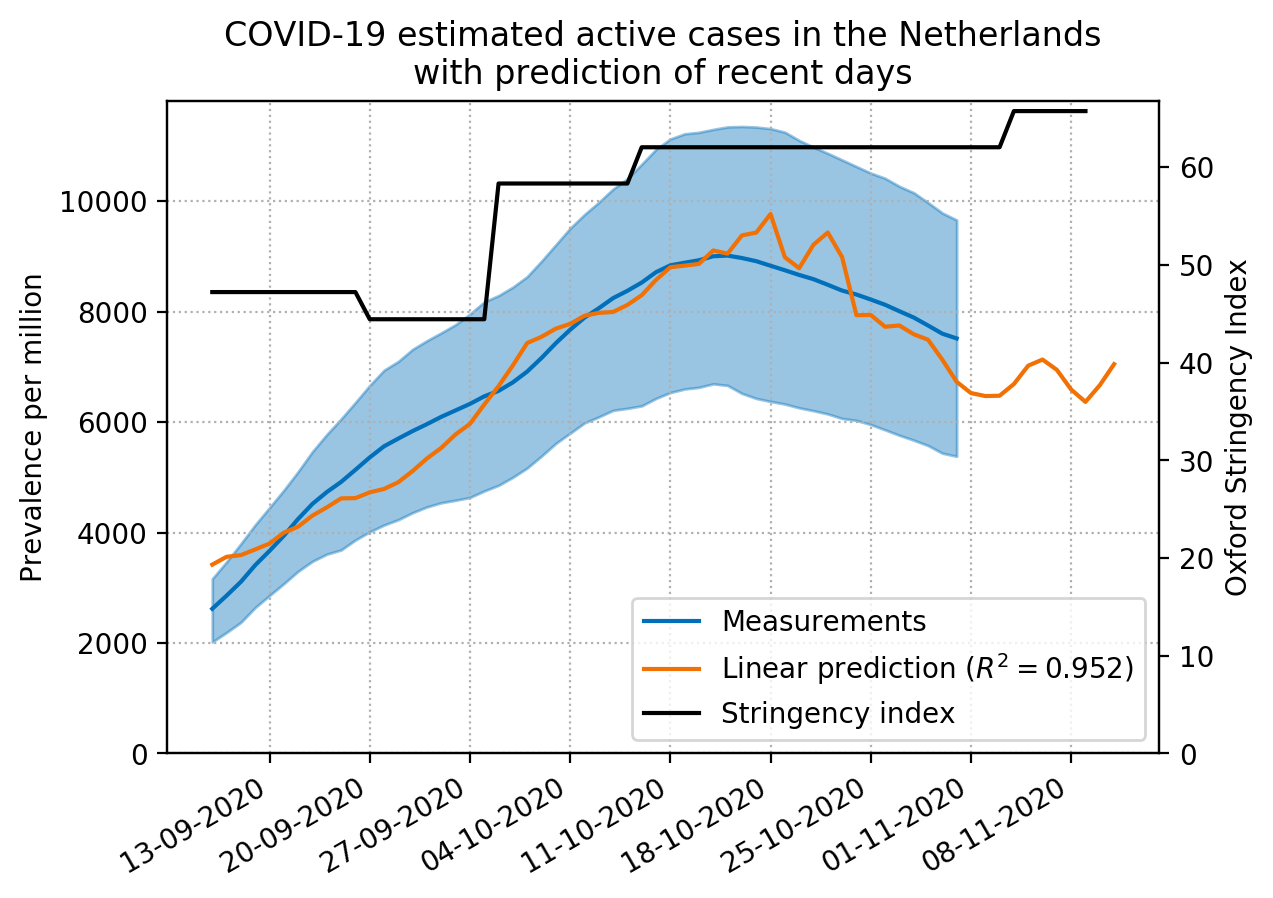
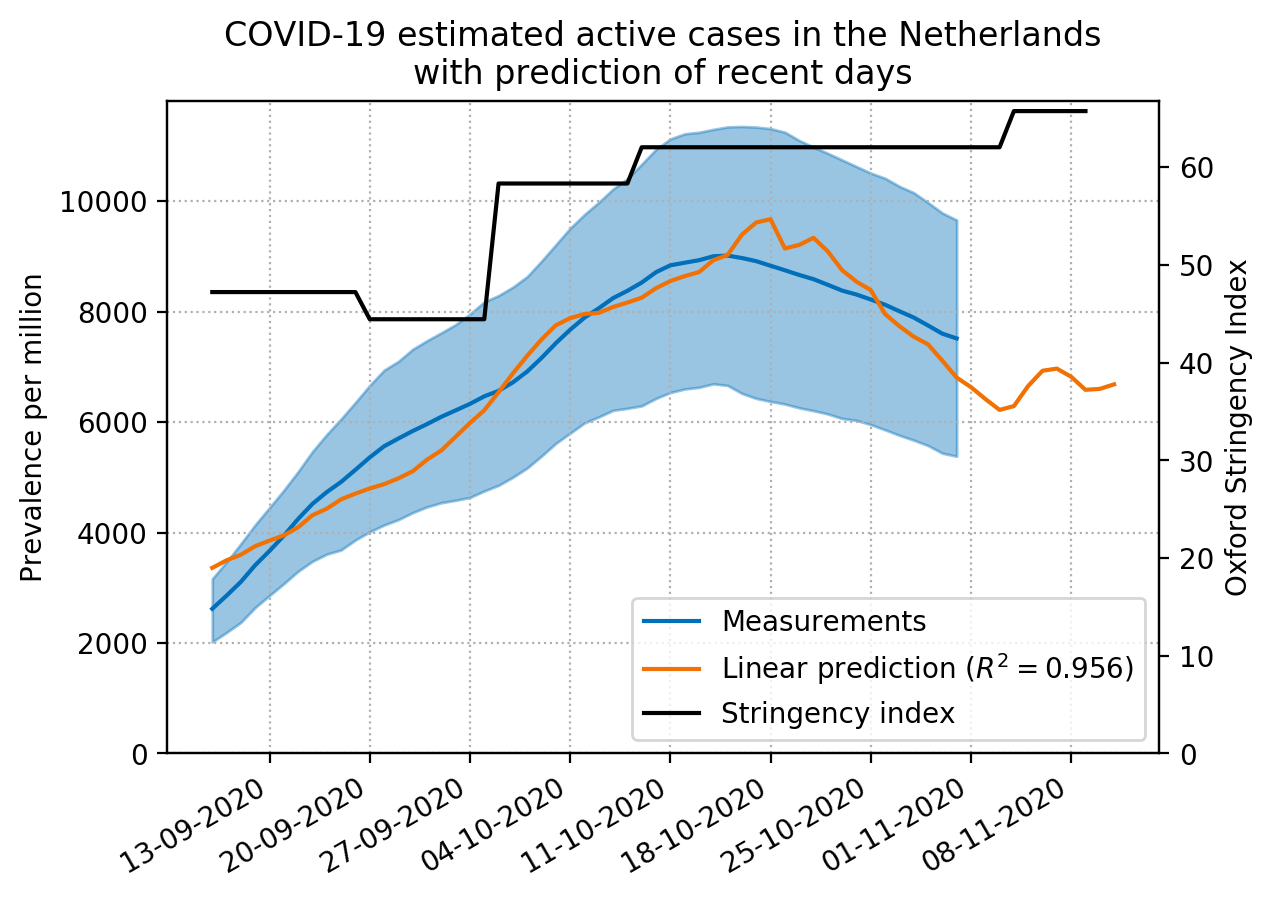
Added stringency index to R prediction plot

diff --git a/model_coronavirus_supression.py b/model_coronavirus_supression.py
@@ -34,6 +34,7 @@ time_till_recovery = 14
 
 betterblue = '#016FB9'
 betterorange = '#F17105'
+betterblack = '#141414'
 
 def downloadSave(url, file_name, check_file_exists = False):
 	"""
@@ -212,23 +213,27 @@ def load_mobility_data(smooth = False, smoothsize = 7, apple_mobility_url_base =
 	### now load the apple data
 	#the url changes to the most recent date of availability, so we need to scan
 	#several urls of the past few days
-	today = dt.datetime.now().date()
-	apple_mob_fname = f'{dataloc}applemobilitytrends-'
-	#make the possible urls, starting with the most recent date
-	for minday in range(8):
-		possible_date = today - dt.timedelta(days = minday)
-		apple_mob_possible_url = f'{apple_mobility_url_base}{possible_date}.csv'
+	possible_apple_data_files = glob.glob(f'{dataloc}applemobilitytrends-*.csv')
+	if len(possible_apple_data_files) == 0:
 
-		try:
-			downloadSave(apple_mob_possible_url, apple_mob_fname + f'{possible_date}.csv', check_file_exists = True)
+		today = dt.datetime.now().date()
+		apple_mob_fname = f'{dataloc}applemobilitytrends-'
+		#make the possible urls, starting with the most recent date
+		for minday in range(8):
+			possible_date = today - dt.timedelta(days = minday)
+			apple_mob_possible_url = f'{apple_mobility_url_base}{possible_date}.csv'
 
-			print(f'{possible_date} correct!')
+			try:
+				downloadSave(apple_mob_possible_url, apple_mob_fname + f'{possible_date}.csv', check_file_exists = True)
 
-			apple_mob_fname += f'{possible_date}.csv'
-			break
-		except HTTPError:
-			print(f'{possible_date} no data found')
+				print(f'{possible_date} correct!')
 
+				apple_mob_fname += f'{possible_date}.csv'
+				break
+			except HTTPError:
+				print(f'{possible_date} no data found')
+	else:
+		apple_mob_fname = possible_apple_data_files[0]
 
 	#load any apple mobility file
 	# apple_part_fname = f'{dataloc}applemobilitytrends*.csv'
@@ -618,7 +623,7 @@ def plot_prevalence_R():
 	ax2.fill_between(df_R0.index, df_R0['Rt_low'], df_R0['Rt_up'], alpha = 0.4, color = 'maroon')
 
 	#also plot government response
-	ln3 = ax3.plot(df_response.index, df_response['StringencyIndex'], label = 'Stringency index', color = 'black')
+	ln3 = ax3.plot(df_response.index, df_response['StringencyIndex'], label = 'Stringency index', color = betterblack)
 
 	ax1.set_ylim(0)
 	ax2.set_ylim(0, 2.6)
@@ -1114,11 +1119,18 @@ def estimate_recent_R(enddate_train = '2020-10-25'):
 	"""
 	Estimate the reproductive number R with mobility data
 	"""
-
 	print(f'WARNING: end date for R training set is {enddate_train}')
+
+	startdate_pred = '2020-07-01'
+
 	df_prevalence, df_R = load_prevalence_R0_data()
 	df_google_mob, df_apple_mob = load_mobility_data(smooth = True)
 	df_sewage = load_sewage_data(smooth = True, shiftdates = True)
+
+	#for the plot as a reference
+	df_response = load_government_response_data()
+
+	df_response = df_response.loc[df_response.index > startdate_pred]
 
 	#determine error of R
 	df_R['Rt_abs_error'] = ((df_R['Rt_low'] - df_R['Rt_avg']).abs() + (df_R['Rt_up'] - df_R['Rt_avg']).abs())/2
@@ -1132,7 +1144,7 @@ def estimate_recent_R(enddate_train = '2020-10-25'):
 	#select date range
 	mask = (df_mob_R.index > '2020-04-01') & (df_mob_R.index <= enddate_train)
 	df_train = df_mob_R.loc[mask]
-	df_pred = df_mob_R.loc[df_mob_R.index > '2020-07-01']
+	df_pred = df_mob_R.loc[df_mob_R.index > startdate_pred]
 
 
 
@@ -1258,30 +1270,42 @@ def estimate_recent_R(enddate_train = '2020-10-25'):
 		Y_pred = clf.predict(X_pred)
 
 
-		fig, ax = plt.subplots()
+		fig, ax1 = plt.subplots()
 
-		ax.plot(df_pred.index, df_pred.Rt_avg, label = 'Ground truth', color = betterblue)
+		ax2 = ax1.twinx()
+
+		ln1 = ax1.plot(df_pred.index, df_pred.Rt_avg, label = 'Ground truth', color = betterblue)
 		#indicate error margins on ground truth
-		ax.fill_between(df_pred.index, df_pred['Rt_low'], df_pred['Rt_up'], alpha = 0.4, color = betterblue)
+		ax1.fill_between(df_pred.index, df_pred['Rt_low'], df_pred['Rt_up'], alpha = 0.4, color = betterblue)
 
-		ax.plot(df_pred.index, Y_pred, label = f'Prediction ($R^2$: {r_squared:0.03f})', color = betterorange)
+		ln2 = ax1.plot(df_pred.index, Y_pred, label = f'Prediction ($R^2$: {r_squared:0.03f})', color = betterorange)
 
-		ax.grid(linestyle = ':')
-		ax.legend(loc = 'best')
+		#also plot government response
+		ln3 = ax2.plot(df_response.index, df_response['StringencyIndex'], label = 'Stringency index', color = betterblack)
 
-		ax.set_ylabel('$R$')
-		ax.set_title('$R$ prediction')
+		ax1.grid(linestyle = ':')
+		# ax.legend(loc = 'best')
+
+		lns = ln1 + ln2 + ln3
+		labs = [l.get_label() for l in lns]
+		ax1.legend(lns, labs, loc = 'lower left')
+
+		ax1.set_ylabel('$R$')
+		ax2.set_ylabel('Oxford Stringency Index')
+		ax1.set_title('$R$ prediction')
+
+		ax2.set_ylim(0)
 
 		#fix date ticks
-		ax.set_xticks(pd.date_range(np.min(df_pred.index), np.max(df_pred.index + pd.Timedelta(f'7 day')), freq = '2W'))
+		ax1.set_xticks(pd.date_range(np.min(df_pred.index), np.max(df_pred.index + pd.Timedelta(f'7 day')), freq = '2W'))
 		fig.autofmt_xdate()
 		myfmt = mdates.DateFormatter('%d-%m-%Y')
-		ax.xaxis.set_major_formatter(myfmt)
+		ax1.xaxis.set_major_formatter(myfmt)
 
 		plt.savefig(f'{mobplotloc}Mobility_R_prediction.png', dpi = 200, bbox_inches = 'tight')
 		plt.close()
 
-def estimate_recent_prevalence(enddate_train = '2020-11-01', smoothsize = 3):
+def estimate_recent_prevalence(enddate_train = '2020-11-01', smoothsize = 5):
 	"""
 	Estimate the recent prevalence based on the test positivity ratio
 	"""
@@ -1446,7 +1470,7 @@ def estimate_recent_prevalence(enddate_train = '2020-11-01', smoothsize = 3):
 	ln2 = ax1.plot(df_prevalence_pred.index, df_prevalence_pred['Prev_pred'], label = f'Linear prediction ($R^2 = {r_squared:0.03f}$)', color = betterorange)
 
 	#also plot government response
-	ln3 = ax2.plot(df_response.index, df_response['StringencyIndex'], label = 'Stringency index', color = 'black')
+	ln3 = ax2.plot(df_response.index, df_response['StringencyIndex'], label = 'Stringency index', color = betterblack)
 
 	ax1.grid(linestyle = ':')
 
@@ -1479,9 +1503,9 @@ def main():
 
 	# plot_superspreader_events()
 
-	# estimate_recent_R(enddate_train = '2020-10-28')
+	estimate_recent_R(enddate_train = '2020-10-28')
 
-	estimate_recent_prevalence(enddate_train = '2020-11-01')
+	# estimate_recent_prevalence(enddate_train = '2020-11-01')
 
 	# plot_prevalence_R()
 
